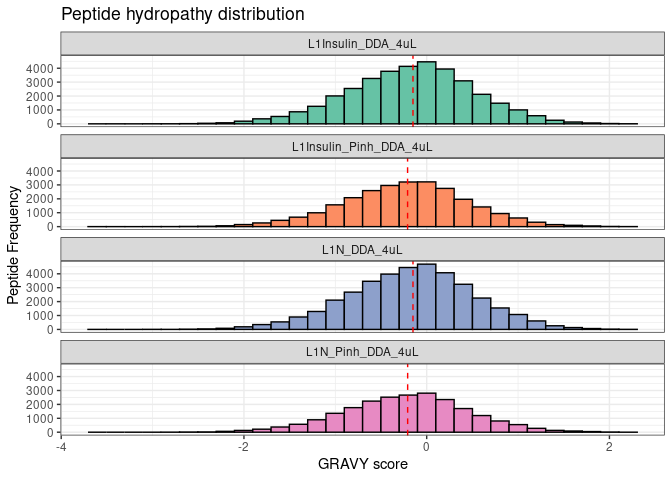
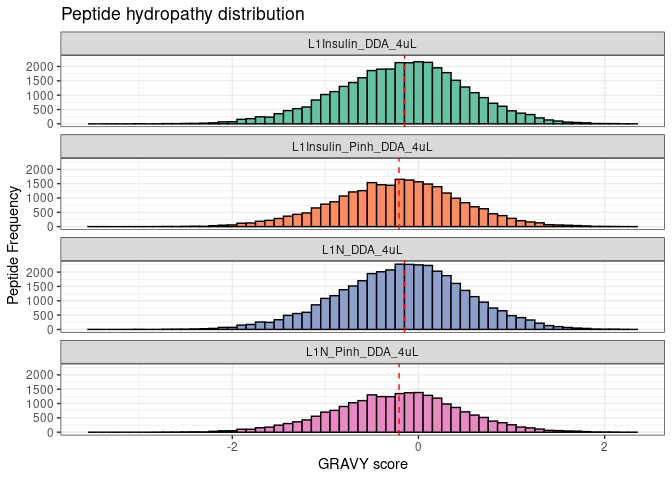
updated

diff --git a/README.md b/README.md
@@ -112,7 +112,7 @@ PlotProteaseSpecificity(peptides)
 <img src="man/figures/README-missed_cleavages-1.png" width="100%" />
 
 ``` r
-PlotGRAVY(peptides, palette = 'Set2', show_median =  TRUE)
+PlotGRAVY(peptides, palette = 'Set2', show_median =  TRUE, binwidth = 0.1)
 ```
 
 <img src="man/figures/README-PLotGRAVY-1.png" width="100%" />
